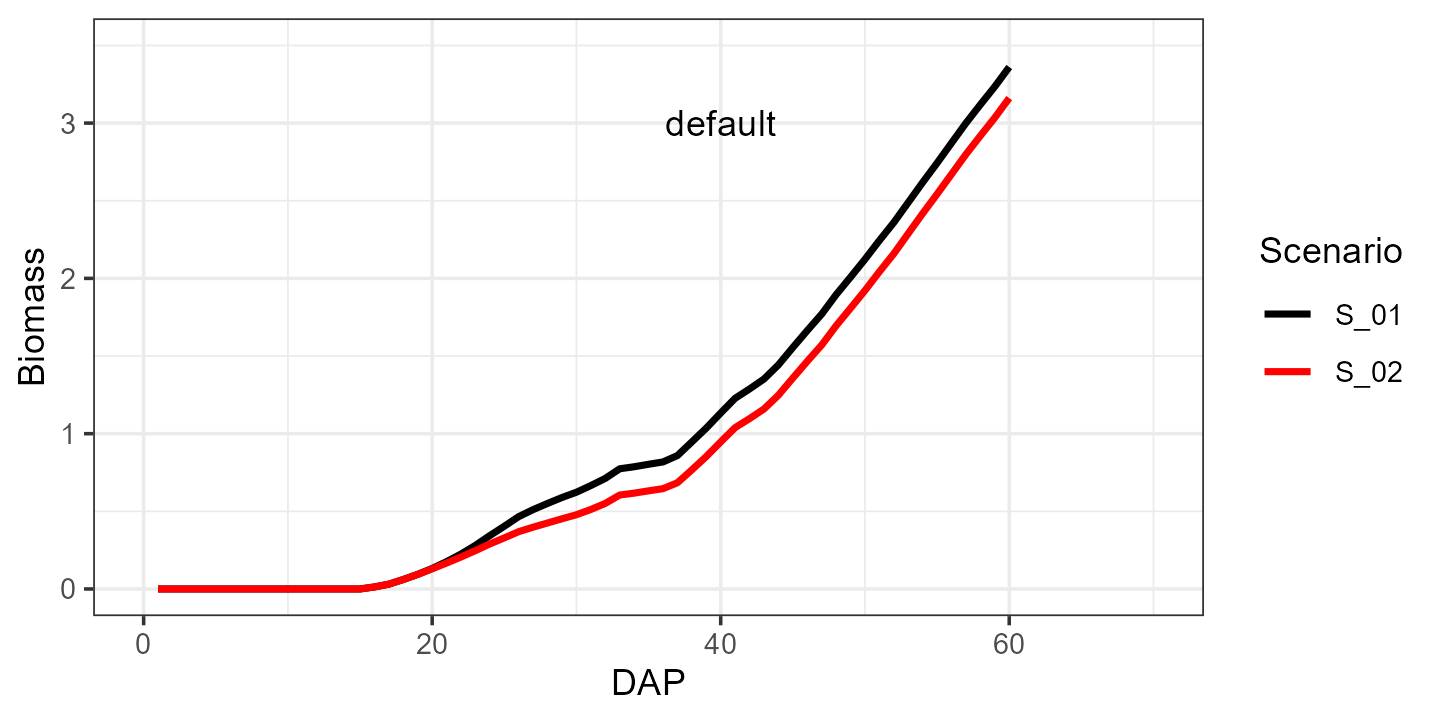
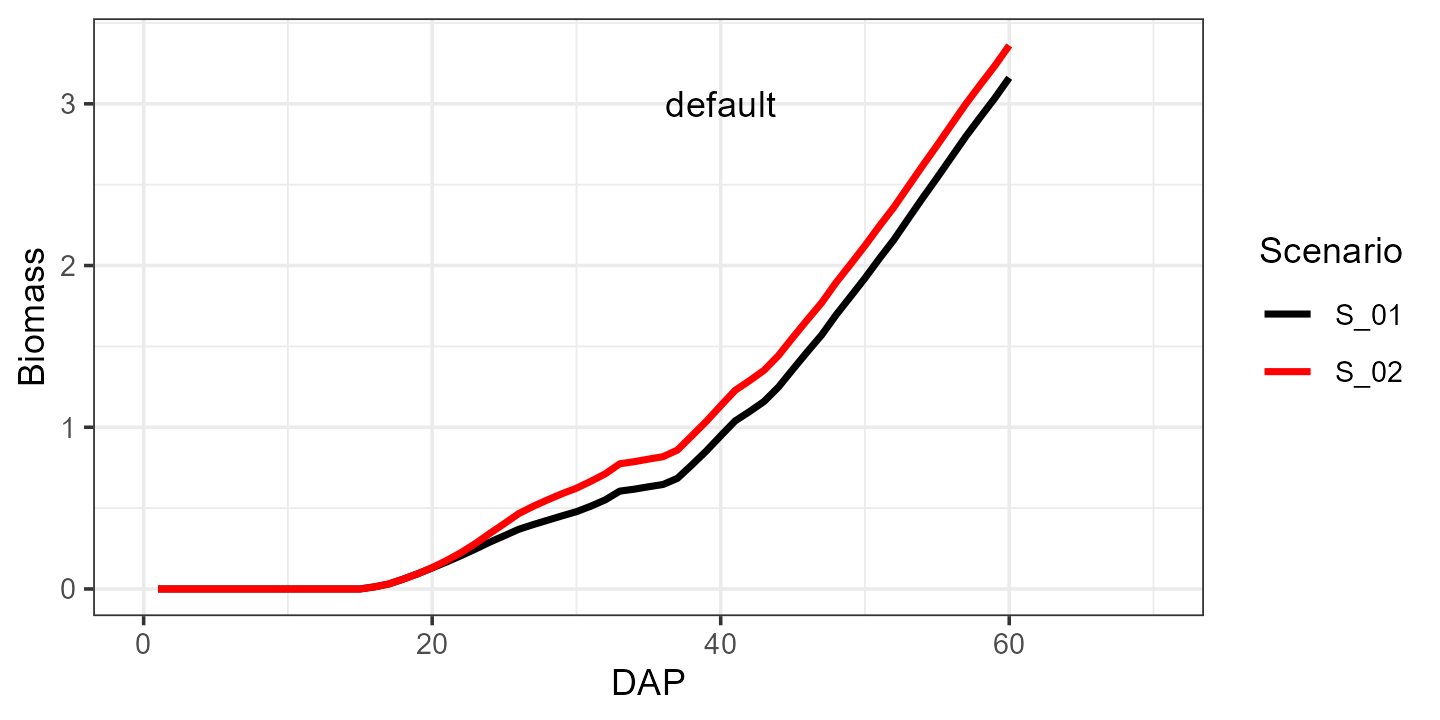
update docs

diff --git a/docs/articles/example-simulation.html b/docs/articles/example-simulation.html
@@ -168,7 +168,7 @@ input to the <code>Tnx</code> argument in the
 <div class="sourceCode" id="cb3"><pre class="downlit sourceCode r">
 <code class="sourceCode R"><span><span class="va">Scenario_s</span> <span class="op">&lt;-</span> <span class="fu"><a href="../reference/design_scenario.html">design_scenario</a></span><span class="op">(</span>name <span class="op">=</span> <span class="fu"><a href="https://rdrr.io/r/base/c.html" class="external-link">c</a></span><span class="op">(</span><span class="st">"S_01"</span>, <span class="st">"S_02"</span><span class="op">)</span>,</span>
 <span>                              Input_Date <span class="op">=</span> <span class="fu"><a href="https://rdrr.io/r/base/as.Date.html" class="external-link">as.Date</a></span><span class="op">(</span><span class="st">"2019-01-01"</span><span class="op">)</span>,</span>
-<span>                              Plant_Date <span class="op">=</span> <span class="fu"><a href="https://rdrr.io/r/base/as.Date.html" class="external-link">as.Date</a></span><span class="op">(</span><span class="st">"2019-04-01"</span><span class="op">)</span>, </span>
+<span>                              Plant_Date <span class="op">=</span> <span class="fu"><a href="https://rdrr.io/r/base/as.Date.html" class="external-link">as.Date</a></span><span class="op">(</span><span class="fu"><a href="https://rdrr.io/r/base/c.html" class="external-link">c</a></span><span class="op">(</span><span class="st">"2019-04-01"</span>, <span class="st">"2019-04-01"</span><span class="op">)</span><span class="op">)</span>, </span>
 <span>                              IRRI <span class="op">=</span> <span class="fu"><a href="https://rdrr.io/r/base/c.html" class="external-link">c</a></span><span class="op">(</span><span class="st">"IRRI_01"</span>, <span class="st">"IRRI_02"</span><span class="op">)</span>,</span>
 <span>                              Soil <span class="op">=</span> <span class="st">"Soil_01"</span>, </span>
 <span>                              Plu <span class="op">=</span> <span class="st">"Plu_01"</span>,</span>
@@ -190,13 +190,13 @@ input to the <code>Tnx</code> argument in the
 <span><span class="co">#&gt; <span style="color: #949494;"># ℹ 2 more variables: weed_mid &lt;dbl&gt;, weed_cc &lt;dbl&gt;</span></span></span></code></pre>
 <p>We can make an irrigation input <code>tibble</code> as follows:</p>
 <div class="sourceCode" id="cb6"><pre class="downlit sourceCode r">
-<code class="sourceCode R"><span><span class="va">IRRI_s</span> <span class="op">&lt;-</span> <span class="fu"><a href="https://tibble.tidyverse.org/reference/tibble.html" class="external-link">tibble</a></span><span class="op">(</span>ID <span class="op">=</span> <span class="fu"><a href="https://rdrr.io/r/base/c.html" class="external-link">c</a></span><span class="op">(</span><span class="st">"IRRI_01"</span>, <span class="st">"IRRI_02"</span><span class="op">)</span>, Timing <span class="op">=</span> <span class="fu"><a href="https://rdrr.io/r/base/c.html" class="external-link">c</a></span><span class="op">(</span><span class="fl">20</span>, <span class="fl">50</span><span class="op">)</span>, Depth <span class="op">=</span> <span class="fu"><a href="https://rdrr.io/r/base/c.html" class="external-link">c</a></span><span class="op">(</span><span class="fl">25</span>,<span class="fl">25</span><span class="op">)</span>, ECw <span class="op">=</span> <span class="fu"><a href="https://rdrr.io/r/base/c.html" class="external-link">c</a></span><span class="op">(</span> <span class="fl">0</span>, <span class="fl">0</span><span class="op">)</span><span class="op">)</span></span>
+<code class="sourceCode R"><span><span class="va">IRRI_s</span> <span class="op">&lt;-</span> <span class="fu"><a href="https://tibble.tidyverse.org/reference/tibble.html" class="external-link">tibble</a></span><span class="op">(</span>ID <span class="op">=</span> <span class="fu"><a href="https://rdrr.io/r/base/c.html" class="external-link">c</a></span><span class="op">(</span><span class="st">"IRRI_01"</span>, <span class="st">"IRRI_02"</span><span class="op">)</span>, Timing <span class="op">=</span> <span class="fu"><a href="https://rdrr.io/r/base/c.html" class="external-link">c</a></span><span class="op">(</span><span class="fl">20</span>, <span class="fl">20</span><span class="op">)</span>, Depth <span class="op">=</span> <span class="fu"><a href="https://rdrr.io/r/base/c.html" class="external-link">c</a></span><span class="op">(</span><span class="fl">0</span>,<span class="fl">25</span><span class="op">)</span>, ECw <span class="op">=</span> <span class="fu"><a href="https://rdrr.io/r/base/c.html" class="external-link">c</a></span><span class="op">(</span> <span class="fl">0</span>, <span class="fl">0</span><span class="op">)</span><span class="op">)</span></span>
 <span><span class="va">IRRI_s</span></span>
 <span><span class="co">#&gt; <span style="color: #949494;"># A tibble: 2 × 4</span></span></span>
 <span><span class="co">#&gt;   ID      Timing Depth   ECw</span></span>
 <span><span class="co">#&gt;   <span style="color: #949494; font-style: italic;">&lt;chr&gt;</span>    <span style="color: #949494; font-style: italic;">&lt;dbl&gt;</span> <span style="color: #949494; font-style: italic;">&lt;dbl&gt;</span> <span style="color: #949494; font-style: italic;">&lt;dbl&gt;</span></span></span>
-<span><span class="co">#&gt; <span style="color: #BCBCBC;">1</span> IRRI_01     20    25     0</span></span>
-<span><span class="co">#&gt; <span style="color: #BCBCBC;">2</span> IRRI_02     50    25     0</span></span></code></pre></div>
+<span><span class="co">#&gt; <span style="color: #BCBCBC;">1</span> IRRI_01     20     0     0</span></span>
+<span><span class="co">#&gt; <span style="color: #BCBCBC;">2</span> IRRI_02     20    25     0</span></span></code></pre></div>
 <p>For this example we will use the data for soil, precipitation,
 temperature and reference evapotranspiration that comes with the
 package. These tibbles should be formatted as presented below.</p>
@@ -261,7 +261,7 @@ spinach:</p>
 <span>               model_options <span class="op">=</span> <span class="fu"><a href="https://rdrr.io/r/base/list.html" class="external-link">list</a></span><span class="op">(</span>AQ <span class="op">=</span> <span class="va">AQ</span>, defaultpar <span class="op">=</span> <span class="va">Spinach</span>, output <span class="op">=</span> <span class="st">"morris"</span><span class="op">)</span><span class="op">)</span></span>
 <span></span>
 <span><span class="fu"><a href="https://ggplot2.tidyverse.org/reference/ggplot.html" class="external-link">ggplot</a></span><span class="op">(</span>mapping <span class="op">=</span> <span class="fu"><a href="https://ggplot2.tidyverse.org/reference/aes.html" class="external-link">aes</a></span><span class="op">(</span>x<span class="op">=</span><span class="va">DAP</span>, y<span class="op">=</span><span class="va">Biomass</span><span class="op">)</span><span class="op">)</span> <span class="op">+</span></span>
-<span>  <span class="fu"><a href="https://ggplot2.tidyverse.org/reference/lims.html" class="external-link">ylim</a></span><span class="op">(</span><span class="fl">0</span>, <span class="fl">3.5</span><span class="op">)</span> <span class="op">+</span></span>
+<span>  <span class="co"># ylim(0, 3.5) +</span></span>
 <span>  <span class="fu"><a href="https://ggplot2.tidyverse.org/reference/geom_path.html" class="external-link">geom_line</a></span><span class="op">(</span>data <span class="op">=</span> <span class="va">default</span>, <span class="fu"><a href="https://ggplot2.tidyverse.org/reference/aes.html" class="external-link">aes</a></span><span class="op">(</span>group <span class="op">=</span> <span class="va">Scenario</span>, color <span class="op">=</span> <span class="va">Scenario</span><span class="op">)</span>,linewidth <span class="op">=</span> <span class="fl">1</span><span class="op">)</span> <span class="op">+</span></span>
 <span>  <span class="fu"><a href="https://ggplot2.tidyverse.org/reference/geom_text.html" class="external-link">geom_text</a></span><span class="op">(</span><span class="fu"><a href="https://ggplot2.tidyverse.org/reference/aes.html" class="external-link">aes</a></span><span class="op">(</span>x<span class="op">=</span><span class="fl">40</span>, y<span class="op">=</span><span class="fl">3</span>, label <span class="op">=</span> <span class="st">'default'</span><span class="op">)</span>, color <span class="op">=</span> <span class="st">"black"</span><span class="op">)</span> <span class="op">+</span></span>
 <span>  <span class="fu"><a href="https://ggplot2.tidyverse.org/reference/lims.html" class="external-link">xlim</a></span><span class="op">(</span><span class="fl">0</span>, <span class="fl">70</span><span class="op">)</span> <span class="op">+</span></span>
